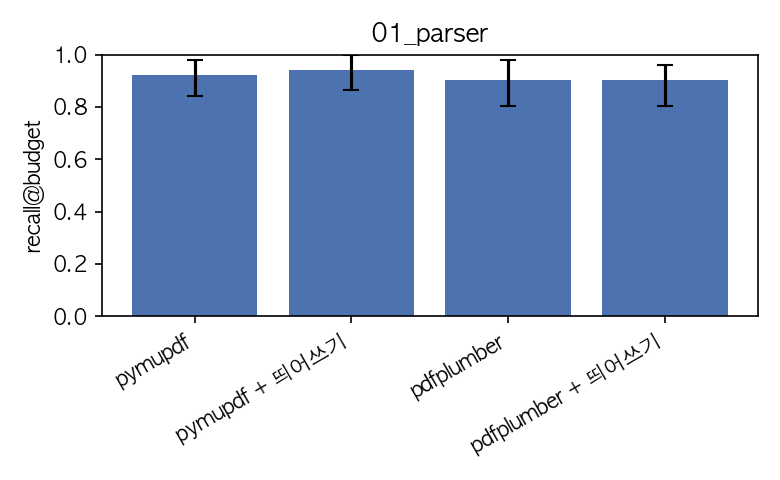
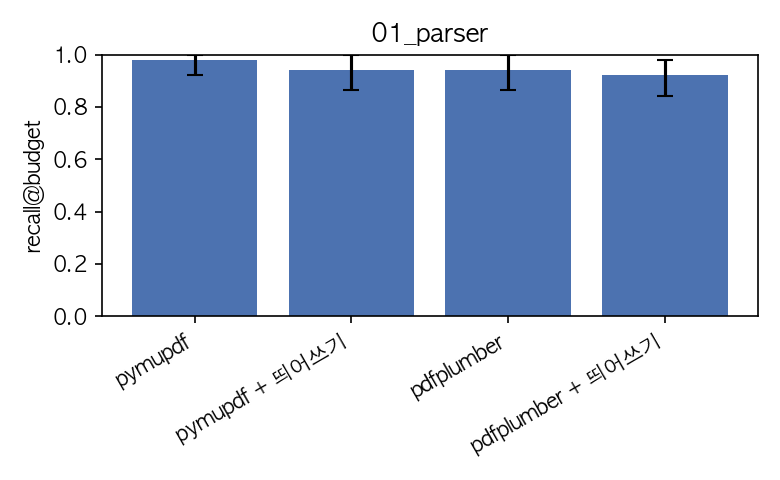
docs(rag-eval): rerun experiments with equal char budget and per-form test report
Selected config unchanged. gemini-1536/3072 still pending (embedding quota).

Changed region(s): [[0.5538, 0.125, 0.7385, 0.2188], [0.7692, 0.125, 0.9538, 0.2188], [0.1538, 0.125, 0.3385, 0.2188]]

diff --git a/rag/eval/results/02_chunking.md b/rag/eval/results/02_chunking.md
@@ -4,13 +4,13 @@
 
 | 구성 | recall@budget | ndcg@10 | recall@3 | recall@20 | mrr | ev_recall@budget | recall@budget (사람 검수) | recall@budget (영문 근거) | chunks |
 |---|---|---|---|---|---|---|---|---|---|
-| 2000자 / 겹침 0 | 0.824 [0.706, 0.922] | 0.707 [0.638, 0.778] | 0.922 [0.843, 0.980] | 1.000 [1.000, 1.000] | 0.862 [0.782, 0.925] | 0.289 [0.220, 0.369] | 0.750 [0.561, 0.938] | 0.706 [0.471, 0.882] | 323 |
-| 2000자 / 겹침 150 | 0.784 [0.667, 0.882] | 0.701 [0.632, 0.768] | 0.902 [0.824, 0.961] | 1.000 [1.000, 1.000] | 0.847 [0.766, 0.916] | 0.302 [0.231, 0.384] | 0.812 [0.625, 1.000] | 0.588 [0.353, 0.824] | 339 |
-| 1200자 / 겹침 0 | 0.961 [0.902, 1.000] | 0.702 [0.637, 0.763] | 0.961 [0.902, 1.000] | 0.980 [0.922, 1.000] | 0.910 [0.839, 0.969] | 0.405 [0.335, 0.489] | 1.000 [1.000, 1.000] | 0.882 [0.706, 1.000] | 530 |
-| 1200자 / 겹침 150 | 0.922 [0.843, 0.980] | 0.690 [0.629, 0.748] | 0.980 [0.922, 1.000] | 0.980 [0.922, 1.000] | 0.863 [0.787, 0.925] | 0.395 [0.320, 0.475] | 0.875 [0.688, 1.000] | 0.882 [0.706, 1.000] | 588 |
-| 600자 / 겹침 0 | 0.980 [0.922, 1.000] | 0.581 [0.517, 0.639] | 0.922 [0.843, 0.980] | 0.980 [0.922, 1.000] | 0.811 [0.724, 0.884] | 0.434 [0.360, 0.511] | 1.000 [1.000, 1.000] | 0.941 [0.824, 1.000] | 1066 |
-| 600자 / 겹침 150 | 0.941 [0.863, 1.000] | 0.622 [0.559, 0.677] | 0.922 [0.843, 0.980] | 0.980 [0.922, 1.000] | 0.807 [0.717, 0.877] | 0.465 [0.387, 0.538] | 1.000 [1.000, 1.000] | 0.824 [0.647, 1.000] | 1351 |
+| 2000자 / 겹침 0 | 0.902 [0.824, 0.961] | 0.707 [0.638, 0.778] | 0.922 [0.843, 0.980] | 1.000 [1.000, 1.000] | 0.862 [0.782, 0.925] | 0.382 [0.306, 0.461] | 0.875 [0.688, 1.000] | 0.824 [0.647, 1.000] | 323 |
+| 2000자 / 겹침 150 | 0.843 [0.745, 0.922] | 0.701 [0.632, 0.768] | 0.902 [0.824, 0.961] | 1.000 [1.000, 1.000] | 0.847 [0.766, 0.916] | 0.380 [0.306, 0.461] | 0.938 [0.812, 1.000] | 0.588 [0.353, 0.824] | 339 |
+| 1200자 / 겹침 0 | 0.961 [0.902, 1.000] | 0.702 [0.637, 0.763] | 0.961 [0.902, 1.000] | 0.980 [0.922, 1.000] | 0.910 [0.839, 0.969] | 0.453 [0.376, 0.532] | 1.000 [1.000, 1.000] | 0.882 [0.706, 1.000] | 530 |
+| 1200자 / 겹침 150 | 0.980 [0.922, 1.000] | 0.690 [0.629, 0.748] | 0.980 [0.922, 1.000] | 0.980 [0.922, 1.000] | 0.863 [0.787, 0.925] | 0.438 [0.368, 0.511] | 1.000 [1.000, 1.000] | 0.941 [0.824, 1.000] | 588 |
+| 600자 / 겹침 0 | 0.980 [0.922, 1.000] | 0.581 [0.517, 0.639] | 0.922 [0.843, 0.980] | 0.980 [0.922, 1.000] | 0.811 [0.724, 0.884] | 0.457 [0.382, 0.528] | 1.000 [1.000, 1.000] | 0.941 [0.824, 1.000] | 1066 |
+| 600자 / 겹침 150 | 0.961 [0.902, 1.000] | 0.622 [0.559, 0.677] | 0.922 [0.843, 0.980] | 0.980 [0.922, 1.000] | 0.807 [0.717, 0.877] | 0.491 [0.410, 0.568] | 1.000 [1.000, 1.000] | 0.882 [0.706, 1.000] | 1351 |
 
 **선택: 1200자 / 겹침 0**
 
-앞쪽일수록 청크 수가 적다(저장·검색 비용이 작다).
+앞쪽일수록 청크 수가 적다(저장·검색 비용이 작다). 예산을 넘는 마지막 청크는 잘라서 담아, 청크 크기와 관계없이 같은 3,600자를 본다.

diff --git a/rag/eval/results/03_embedding.md b/rag/eval/results/03_embedding.md
@@ -4,12 +4,12 @@
 
 | 구성 | ndcg@10 | recall@3 | recall@20 | mrr | recall@budget | ev_recall@budget | ndcg@10 (사람 검수) | ndcg@10 (영문 근거) | chunks | dims | storage_mb | query_ms |
 |---|---|---|---|---|---|---|---|---|---|---|---|---|
-| gemini-768 | 0.787 [0.734, 0.839] | 0.980 [0.941, 1.000] | 1.000 [1.000, 1.000] | 0.946 [0.897, 0.990] | 0.980 [0.941, 1.000] | 0.426 [0.361, 0.495] | 0.845 [0.784, 0.908] | 0.658 [0.546, 0.754] | 530 | 768 | 0.814 | 116.400 |
-| bge-m3 | 0.702 [0.637, 0.763] | 0.961 [0.902, 1.000] | 0.980 [0.922, 1.000] | 0.910 [0.839, 0.969] | 0.961 [0.902, 1.000] | 0.405 [0.335, 0.489] | 0.675 [0.591, 0.770] | 0.589 [0.431, 0.716] | 530 | 1024 | 1.085 | 19.000 |
-| kure-v1 | 0.717 [0.653, 0.776] | 0.941 [0.863, 1.000] | 0.980 [0.922, 1.000] | 0.903 [0.829, 0.966] | 0.922 [0.843, 0.980] | 0.415 [0.341, 0.497] | 0.717 [0.628, 0.804] | 0.603 [0.460, 0.724] | 530 | 1024 | 1.085 | 23.700 |
-| qwen3-0.6b | 0.648 [0.583, 0.712] | 0.902 [0.824, 0.980] | 0.961 [0.902, 1.000] | 0.835 [0.750, 0.916] | 0.863 [0.784, 0.941] | 0.379 [0.306, 0.451] | 0.709 [0.622, 0.797] | 0.446 [0.305, 0.566] | 530 | 1024 | 1.085 | 30.900 |
-| e5-large-instruct | 0.675 [0.602, 0.747] | 0.922 [0.843, 0.980] | 0.980 [0.922, 1.000] | 0.877 [0.800, 0.947] | 0.922 [0.843, 0.980] | 0.408 [0.339, 0.484] | 0.726 [0.636, 0.821] | 0.474 [0.308, 0.616] | 530 | 1024 | 1.085 | 18.700 |
+| gemini-768 | 0.787 [0.734, 0.839] | 0.980 [0.941, 1.000] | 1.000 [1.000, 1.000] | 0.946 [0.897, 0.990] | 1.000 [1.000, 1.000] | 0.497 [0.431, 0.568] | 0.845 [0.784, 0.908] | 0.658 [0.546, 0.754] | 530 | 768 | 0.814 | 10801.800 |
+| bge-m3 | 0.702 [0.637, 0.763] | 0.961 [0.902, 1.000] | 0.980 [0.922, 1.000] | 0.910 [0.839, 0.969] | 0.961 [0.902, 1.000] | 0.453 [0.376, 0.532] | 0.675 [0.591, 0.770] | 0.589 [0.431, 0.716] | 530 | 1024 | 1.085 | 15.900 |
+| kure-v1 | 0.717 [0.653, 0.776] | 0.941 [0.863, 1.000] | 0.980 [0.922, 1.000] | 0.903 [0.829, 0.966] | 0.941 [0.863, 1.000] | 0.456 [0.384, 0.531] | 0.717 [0.628, 0.804] | 0.603 [0.460, 0.724] | 530 | 1024 | 1.085 | 21.000 |
+| qwen3-0.6b | 0.648 [0.583, 0.712] | 0.902 [0.824, 0.980] | 0.961 [0.902, 1.000] | 0.835 [0.750, 0.916] | 0.902 [0.824, 0.980] | 0.439 [0.370, 0.510] | 0.709 [0.622, 0.797] | 0.446 [0.305, 0.566] | 530 | 1024 | 1.085 | 28.500 |
+| e5-large-instruct | 0.675 [0.602, 0.747] | 0.922 [0.843, 0.980] | 0.980 [0.922, 1.000] | 0.877 [0.800, 0.947] | 0.922 [0.843, 0.980] | 0.447 [0.372, 0.525] | 0.726 [0.636, 0.821] | 0.474 [0.308, 0.616] | 530 | 1024 | 1.085 | 17.400 |
 
 **선택: gemini-768**
 
-앞쪽일수록 저장 용량(차원)이 작다. storage_mb는 halfvec(2바이트) 기준. gemini의 query_ms는 네트워크 왕복을 포함한다.
+앞쪽일수록 저장 용량(차원)이 작다. storage_mb는 halfvec(2바이트) 기준. gemini의 query_ms는 네트워크 왕복을 포함한다. 미실행: gemini-1536, gemini-3072.

diff --git a/rag/eval/results/06_operating.md b/rag/eval/results/06_operating.md
@@ -4,9 +4,9 @@
 
 | 구성 | ndcg@10 | recall@3 | recall@20 | mrr | recall@budget | ev_recall@budget | queries |
 |---|---|---|---|---|---|---|---|
-| keyword | 0.818 [0.659, 0.937] | 0.917 [0.750, 1.000] | 1.000 [1.000, 1.000] | 0.896 [0.729, 1.000] | 0.917 [0.750, 1.000] | 0.415 [0.262, 0.608] | 12 |
-| question | 0.813 [0.728, 0.882] | 1.000 [1.000, 1.000] | 1.000 [1.000, 1.000] | 0.958 [0.875, 1.000] | 1.000 [1.000, 1.000] | 0.446 [0.317, 0.587] | 12 |
-| inbody | 0.404 [0.404, 0.404] | 1.000 [1.000, 1.000] | 1.000 [1.000, 1.000] | 1.000 [1.000, 1.000] | 1.000 [1.000, 1.000] | 0.143 [0.143, 0.143] | 1 |
+| keyword | 0.818 [0.659, 0.937] | 0.917 [0.750, 1.000] | 1.000 [1.000, 1.000] | 0.896 [0.729, 1.000] | 1.000 [1.000, 1.000] | 0.466 [0.315, 0.638] | 12 |
+| question | 0.813 [0.728, 0.882] | 1.000 [1.000, 1.000] | 1.000 [1.000, 1.000] | 0.958 [0.875, 1.000] | 1.000 [1.000, 1.000] | 0.489 [0.373, 0.615] | 12 |
+| inbody | 0.404 [0.404, 0.404] | 1.000 [1.000, 1.000] | 1.000 [1.000, 1.000] | 1.000 [1.000, 1.000] | 1.000 [1.000, 1.000] | 0.238 [0.238, 0.238] | 1 |
 
 **선택: keyword** (inbody는 참고)
 
@@ -27,9 +27,11 @@
 
 ## 시험용 결과
 
-| 구성 | recall@2 | ndcg@10 | mrr | ev_recall@2 | recall@2 (사람 검수) | recall@2 (영문 근거) |
-|---|---|---|---|---|---|---|
-| 임계값 없음 | 1.000 [1.000, 1.000] | 0.774 [0.708, 0.834] | 0.962 [0.904, 1.000] | 0.394 [0.322, 0.474] | 1.000 [1.000, 1.000] | 1.000 [1.000, 1.000] |
-| 임계값 0.7069 | 0.923 [0.808, 1.000] | 0.721 [0.613, 0.813] | 0.904 [0.788, 1.000] | 0.383 [0.302, 0.467] | 1.000 [1.000, 1.000] | 0.714 [0.429, 1.000] |
+| 구성 | recall@2 | ndcg@10 | mrr | ev_recall@2 | recall@2 (사람 검수) | recall@2 (영문 근거) | queries |
+|---|---|---|---|---|---|---|---|
+| 전체 · 임계값 없음 | 1.000 [1.000, 1.000] | 0.774 [0.708, 0.834] | 0.962 [0.904, 1.000] | 0.394 [0.322, 0.474] | 1.000 [1.000, 1.000] | 1.000 [1.000, 1.000] | 26 |
+| 전체 · 임계값 0.7069 | 0.923 [0.808, 1.000] | 0.721 [0.613, 0.813] | 0.904 [0.788, 1.000] | 0.383 [0.302, 0.467] | 1.000 [1.000, 1.000] | 0.714 [0.429, 1.000] | 26 |
+| keyword · 임계값 없음 | 1.000 [1.000, 1.000] | 0.820 [0.722, 0.902] | 0.958 [0.875, 1.000] | 0.425 [0.296, 0.556] | 1.000 [1.000, 1.000] | 1.000 [1.000, 1.000] | 12 |
+| keyword · 임계값 0.7069 | 1.000 [1.000, 1.000] | 0.820 [0.722, 0.902] | 0.958 [0.875, 1.000] | 0.425 [0.296, 0.556] | 1.000 [1.000, 1.000] | 1.000 [1.000, 1.000] | 12 |
 
-정답 없는 쿼리 3개 중 3개가 임계값으로 걸러진다. 임계값을 정할 때 이 3개를 모두 썼으므로 시험용 검증이 아니다.
+정답 없는 쿼리 3개 중 3개가 임계값으로 걸러진다. 임계값을 정할 때 이 3개를 모두 썼다.

diff --git a/rag/eval/results/summary.md b/rag/eval/results/summary.md
@@ -16,11 +16,21 @@
 | final_k | 2 |
 | threshold | 0.7069 |
 
-시험용 Recall@2: 0.923 [0.808, 1.000], nDCG@10: 0.721 [0.613, 0.813], 사람 검수 쿼리만: 1.000 [1.000, 1.000]. 정답 없는 쿼리 3개 중 3개를 임계값으로 거른다(임계값을 이 쿼리들로 정했으므로 검증된 값은 아니다).
+## 시험용 결과 (k = 2)
+
+| 구성 | recall@2 | ndcg@10 | mrr | ev_recall@2 | recall@2 (사람 검수) | recall@2 (영문 근거) | queries |
+|---|---|---|---|---|---|---|---|
+| 전체 · 임계값 없음 | 1.000 [1.000, 1.000] | 0.774 [0.708, 0.834] | 0.962 [0.904, 1.000] | 0.394 [0.322, 0.474] | 1.000 [1.000, 1.000] | 1.000 [1.000, 1.000] | 26 |
+| 전체 · 임계값 0.7069 | 0.923 [0.808, 1.000] | 0.721 [0.613, 0.813] | 0.904 [0.788, 1.000] | 0.383 [0.302, 0.467] | 1.000 [1.000, 1.000] | 0.714 [0.429, 1.000] | 26 |
+| keyword · 임계값 없음 | 1.000 [1.000, 1.000] | 0.820 [0.722, 0.902] | 0.958 [0.875, 1.000] | 0.425 [0.296, 0.556] | 1.000 [1.000, 1.000] | 1.000 [1.000, 1.000] | 12 |
+| keyword · 임계값 0.7069 | 1.000 [1.000, 1.000] | 0.820 [0.722, 0.902] | 0.958 [0.875, 1.000] | 0.425 [0.296, 0.556] | 1.000 [1.000, 1.000] | 1.000 [1.000, 1.000] | 12 |
+
+정답 없는 쿼리 3개 중 3개를 임계값으로 거른다(임계값을 이 쿼리들로 정했다).
 
 단계별 근거는 `01_parser.md` … `06_operating.md`. 1등과의 쿼리별 차이(쌍체 부트스트랩 95% 구간)가 0을 포함하면 더 단순·저렴한 구성을 골랐다.
 
 ## 한계
+- k와 임계값만 조정용으로 정하고 시험용으로 보고했다. 파서·청킹·임베딩·하이브리드·리랭커는 시험용 쿼리까지 포함한 전체 쿼리로 골랐으므로(spec 4절) 시험용 수치는 다소 낙관적이다.
 - 라벨은 사람 검수 188건 + LLM(GPT) 판정. 사람 검수 쿼리는 고혈압·당뇨·이상지질혈증뿐이라 "사람 검수" 열을 함께 본다.
 - 후보 모으기(pooling)로 만든 라벨이라, 어떤 방식도 찾지 못한 정답은 빠져 있다.
 - 근거 문장은 PyMuPDF 텍스트에서 뽑아 1단계 preservation은 PyMuPDF에 유리하다.

diff --git a/rag/eval/results/01_parser.md b/rag/eval/results/01_parser.md
@@ -4,10 +4,10 @@
 
 | 구성 | recall@budget | ndcg@10 | recall@3 | recall@20 | mrr | ev_recall@budget | recall@budget (사람 검수) | recall@budget (영문 근거) | chunks | preservation |
 |---|---|---|---|---|---|---|---|---|---|---|
-| pymupdf | 0.922 [0.843, 0.980] | 0.690 [0.629, 0.748] | 0.980 [0.922, 1.000] | 0.980 [0.922, 1.000] | 0.863 [0.787, 0.925] | 0.395 [0.320, 0.475] | 0.875 [0.688, 1.000] | 0.882 [0.706, 1.000] | 588 | 1.000 |
-| pymupdf + 띄어쓰기 | 0.941 [0.863, 1.000] | 0.688 [0.625, 0.746] | 0.941 [0.863, 1.000] | 0.980 [0.922, 1.000] | 0.877 [0.799, 0.943] | 0.390 [0.321, 0.462] | 1.000 [1.000, 1.000] | 0.824 [0.647, 1.000] | 598 | 1.000 |
-| pdfplumber | 0.902 [0.804, 0.980] | 0.688 [0.620, 0.748] | 0.941 [0.863, 1.000] | 0.980 [0.922, 1.000] | 0.870 [0.783, 0.938] | 0.345 [0.276, 0.421] | 0.938 [0.812, 1.000] | 0.765 [0.587, 0.941] | 584 | 0.971 |
-| pdfplumber + 띄어쓰기 | 0.902 [0.804, 0.961] | 0.633 [0.566, 0.687] | 0.941 [0.863, 1.000] | 0.980 [0.922, 1.000] | 0.842 [0.753, 0.911] | 0.337 [0.270, 0.408] | 1.000 [1.000, 1.000] | 0.706 [0.471, 0.882] | 600 | 0.968 |
+| pymupdf | 0.980 [0.922, 1.000] | 0.690 [0.629, 0.748] | 0.980 [0.922, 1.000] | 0.980 [0.922, 1.000] | 0.863 [0.787, 0.925] | 0.438 [0.368, 0.511] | 1.000 [1.000, 1.000] | 0.941 [0.824, 1.000] | 588 | 1.000 |
+| pymupdf + 띄어쓰기 | 0.941 [0.863, 1.000] | 0.688 [0.625, 0.746] | 0.941 [0.863, 1.000] | 0.980 [0.922, 1.000] | 0.877 [0.799, 0.943] | 0.436 [0.365, 0.510] | 1.000 [1.000, 1.000] | 0.824 [0.647, 1.000] | 598 | 1.000 |
+| pdfplumber | 0.941 [0.863, 1.000] | 0.688 [0.620, 0.748] | 0.941 [0.863, 1.000] | 0.980 [0.922, 1.000] | 0.870 [0.783, 0.938] | 0.389 [0.321, 0.458] | 1.000 [1.000, 1.000] | 0.824 [0.647, 1.000] | 584 | 0.971 |
+| pdfplumber + 띄어쓰기 | 0.922 [0.843, 0.980] | 0.633 [0.566, 0.687] | 0.941 [0.863, 1.000] | 0.980 [0.922, 1.000] | 0.842 [0.753, 0.911] | 0.370 [0.302, 0.441] | 1.000 [1.000, 1.000] | 0.765 [0.587, 0.941] | 600 | 0.968 |
 
 **선택: pymupdf**
 

diff --git a/rag/eval/results/05_reranker.md b/rag/eval/results/05_reranker.md
@@ -4,9 +4,9 @@
 
 | 구성 | ndcg@10 | recall@3 | recall@20 | mrr | recall@budget | ev_recall@budget | ndcg@10 (사람 검수) | ndcg@10 (영문 근거) | chunks | rerank_ms |
 |---|---|---|---|---|---|---|---|---|---|---|
-| 없음 | 0.787 [0.734, 0.839] | 0.980 [0.941, 1.000] | 1.000 [1.000, 1.000] | 0.946 [0.897, 0.990] | 0.980 [0.941, 1.000] | 0.426 [0.361, 0.495] | 0.845 [0.784, 0.908] | 0.658 [0.546, 0.754] | 530 |  |
-| bge-reranker-v2-m3 | 0.776 [0.733, 0.819] | 1.000 [1.000, 1.000] | 1.000 [1.000, 1.000] | 0.938 [0.889, 0.977] | 1.000 [1.000, 1.000] | 0.429 [0.364, 0.498] | 0.789 [0.726, 0.860] | 0.675 [0.595, 0.751] | 530 | 2434.466 |
-| bge-reranker-v2-m3-ko | 0.712 [0.656, 0.763] | 0.902 [0.804, 0.980] | 1.000 [1.000, 1.000] | 0.870 [0.792, 0.938] | 0.902 [0.804, 0.980] | 0.398 [0.322, 0.474] | 0.719 [0.645, 0.795] | 0.590 [0.481, 0.674] | 530 | 2478.291 |
+| 없음 | 0.787 [0.734, 0.839] | 0.980 [0.941, 1.000] | 1.000 [1.000, 1.000] | 0.946 [0.897, 0.990] | 1.000 [1.000, 1.000] | 0.497 [0.431, 0.568] | 0.845 [0.784, 0.908] | 0.658 [0.546, 0.754] | 530 |  |
+| bge-reranker-v2-m3 | 0.776 [0.733, 0.819] | 1.000 [1.000, 1.000] | 1.000 [1.000, 1.000] | 0.938 [0.889, 0.977] | 1.000 [1.000, 1.000] | 0.488 [0.423, 0.556] | 0.789 [0.726, 0.860] | 0.675 [0.595, 0.751] | 530 | 2418.677 |
+| bge-reranker-v2-m3-ko | 0.712 [0.656, 0.763] | 0.902 [0.804, 0.980] | 1.000 [1.000, 1.000] | 0.870 [0.792, 0.938] | 0.922 [0.843, 0.980] | 0.438 [0.365, 0.511] | 0.719 [0.645, 0.795] | 0.590 [0.481, 0.674] | 530 | 2473.060 |
 
 **선택: 없음**
 

diff --git a/rag/eval/results/04_hybrid.md b/rag/eval/results/04_hybrid.md
@@ -4,7 +4,7 @@
 
 | 구성 | ndcg@10 | recall@3 | recall@20 | mrr | recall@budget | ev_recall@budget | ndcg@10 (사람 검수) | ndcg@10 (영문 근거) | chunks |
 |---|---|---|---|---|---|---|---|---|---|
-| 벡터만 | 0.787 [0.734, 0.839] | 0.980 [0.941, 1.000] | 1.000 [1.000, 1.000] | 0.946 [0.897, 0.990] | 0.980 [0.941, 1.000] | 0.426 [0.361, 0.495] | 0.845 [0.784, 0.908] | 0.658 [0.546, 0.754] | 530 |
-| 벡터 + BM25 | 0.731 [0.667, 0.790] | 0.941 [0.863, 1.000] | 0.980 [0.922, 1.000] | 0.915 [0.840, 0.972] | 0.941 [0.863, 1.000] | 0.416 [0.346, 0.486] | 0.809 [0.752, 0.870] | 0.520 [0.371, 0.643] | 530 |
+| 벡터만 | 0.787 [0.734, 0.839] | 0.980 [0.941, 1.000] | 1.000 [1.000, 1.000] | 0.946 [0.897, 0.990] | 1.000 [1.000, 1.000] | 0.497 [0.431, 0.568] | 0.845 [0.784, 0.908] | 0.658 [0.546, 0.754] | 530 |
+| 벡터 + BM25 | 0.731 [0.667, 0.790] | 0.941 [0.863, 1.000] | 0.980 [0.922, 1.000] | 0.915 [0.840, 0.972] | 0.941 [0.863, 1.000] | 0.459 [0.390, 0.529] | 0.809 [0.752, 0.870] | 0.520 [0.371, 0.643] | 530 |
 
 **선택: 벡터만**
